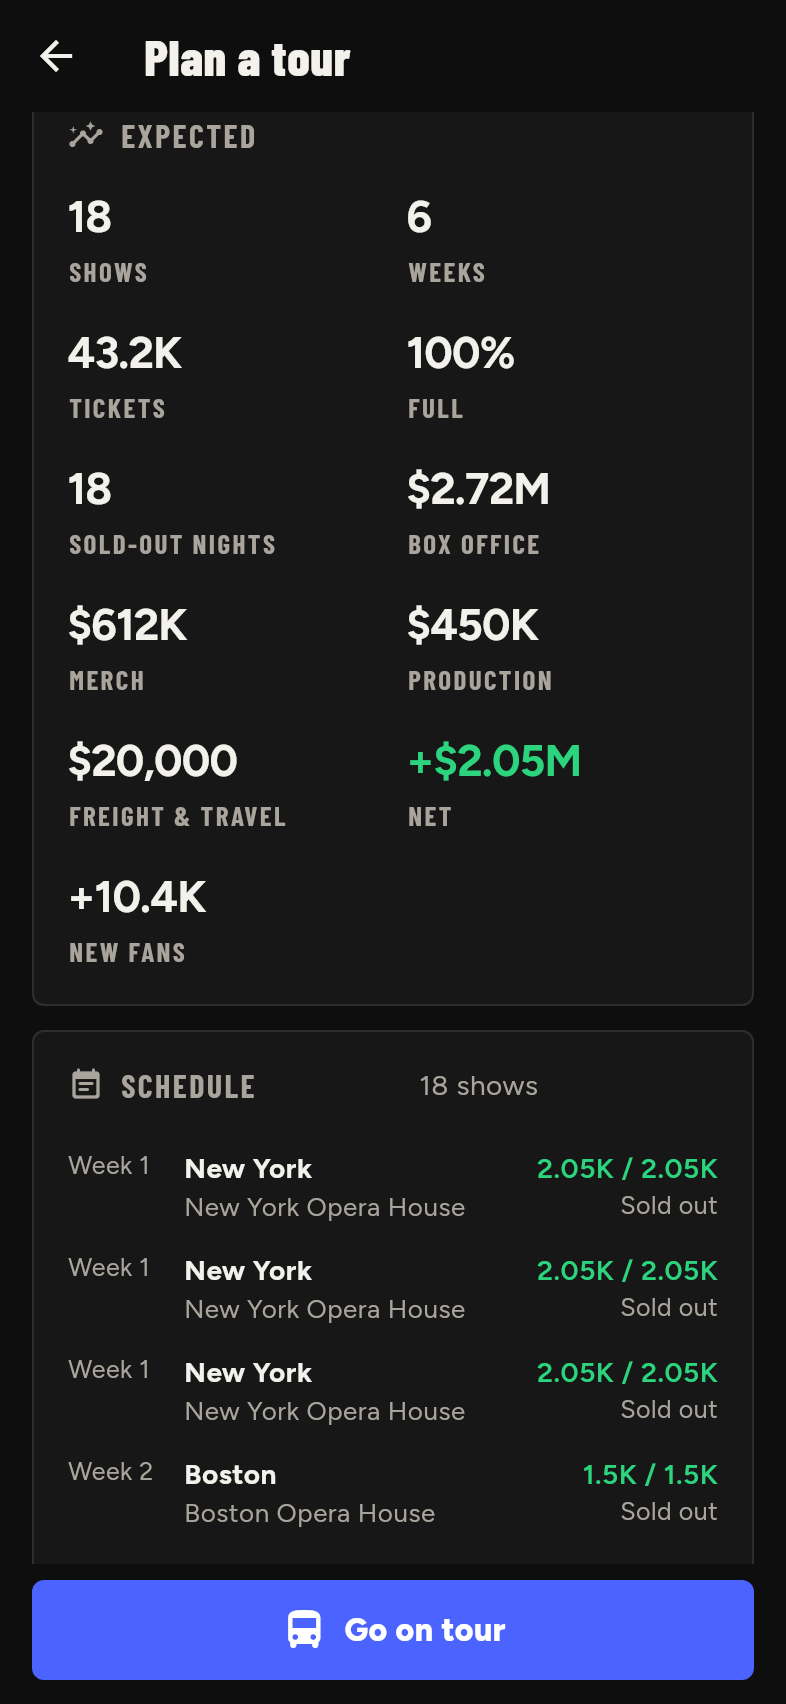
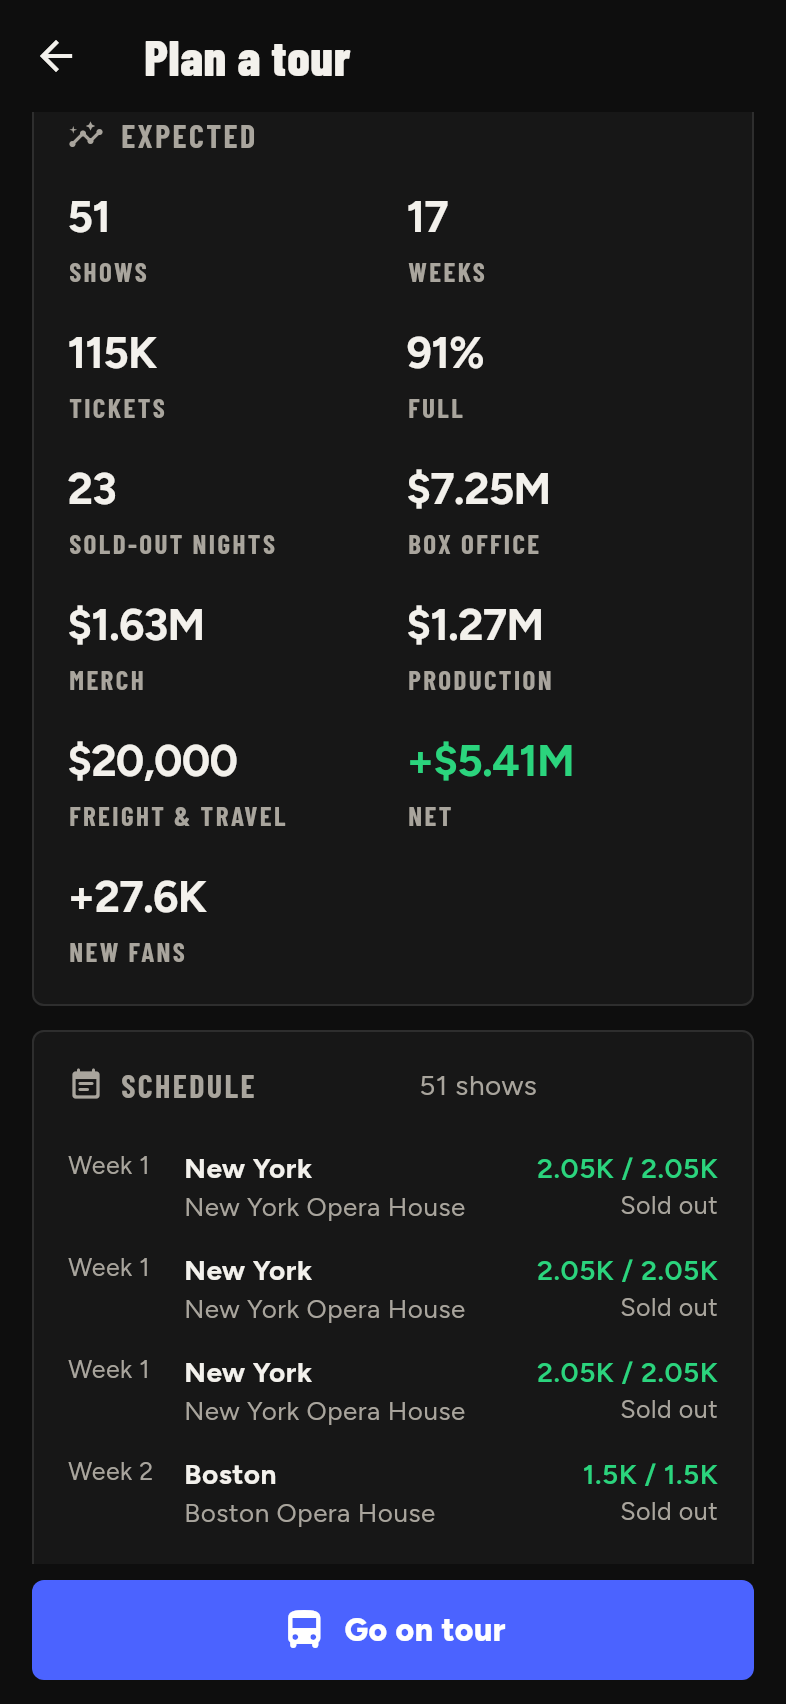
Size tour legs to what the fans fill (K181)
The tour planner set every leg to a third of the market's nights, so a
US stadium leg started at 20 nights and sold half empty. A leg now
starts at the most nights that fill about 90% of the seats at the
chosen prices, production and support act, and a 'Fit to demand'
button sizes it again after changes.

Claude-Session: https://claude.ai/code/session_01UqeaYiXbKvrTFgHV44HcjP

diff --git a/app/lib/screens/tour_screen.dart b/app/lib/screens/tour_screen.dart
@@ -48,6 +48,16 @@ class _TourScreenState extends State<TourScreen> {
     };
     _legs[home] = _defaultLeg(home);
     _load();
+    _fit(home);
+  }
+
+  /// Sizes [m]'s leg to the nights its fans can fill (docs K181).
+  Future<void> _fit(TourMarket m) async {
+    if (_legs[m] == null) return;
+    final n = await widget.state.read(Cmd.suggestTourShows(_request, m));
+    if (!mounted) return;
+    final d = _legs[m];
+    if (d != null) _change(() => d.shows = n);
   }
 
   @override
@@ -190,15 +200,22 @@ class _TourScreenState extends State<TourScreen> {
                       estimate: plan?.legs
                           .where((v) => v.leg.market == m)
                           .firstOrNull,
-                      onToggle: (on) => _change(() {
-                        on ? _legs[m] = _defaultLeg(m) : _legs.remove(m);
-                      }),
-                      onKind: (k) => _change(() {
-                        final d = _legs[m]!;
-                        d.kind = k;
-                        d.shows = d.shows.clamp(1, Tours.maxShows(m, k));
-                      }),
+                      onToggle: (on) {
+                        _change(() {
+                          on ? _legs[m] = _defaultLeg(m) : _legs.remove(m);
+                        });
+                        if (on) _fit(m);
+                      },
+                      onKind: (k) {
+                        _change(() {
+                          final d = _legs[m]!;
+                          d.kind = k;
+                          d.shows = d.shows.clamp(1, Tours.maxShows(m, k));
+                        });
+                        _fit(m);
+                      },
                       onShows: (n) => _change(() => _legs[m]!.shows = n),
+                      onFit: () => _fit(m),
                     ),
                 ]),
           ),
@@ -317,6 +334,7 @@ class _MarketTile extends StatelessWidget {
     required this.onToggle,
     required this.onKind,
     required this.onShows,
+    required this.onFit,
   });
   final TourMarket market;
   final _LegDraft? draft;
@@ -325,6 +343,9 @@ class _MarketTile extends StatelessWidget {
   final ValueChanged<bool> onToggle;
   final ValueChanged<TourKind> onKind;
   final ValueChanged<int> onShows;
+
+  /// Sizes the leg to its demand (docs K181).
+  final VoidCallback onFit;
 
   @override
   Widget build(BuildContext context) {
@@ -383,16 +404,24 @@ class _MarketTile extends StatelessWidget {
           if (e != null)
             Padding(
               padding: const EdgeInsets.fromLTRB(12, 6, 0, 0),
-              child: Text(
-                  l.tourLegEstimate((e.fill * 100).round(),
-                      fmt.compact(e.tickets), fmt.money(e.priceCents)),
-                  style: TextStyle(
-                      color: e.fill >= 0.8
-                          ? AppColors.mint
-                          : e.fill >= 0.5
-                              ? AppColors.textMuted
-                              : AppColors.coral,
-                      fontWeight: FontWeight.w600)),
+              child: Row(children: [
+                Expanded(
+                    child: Text(
+                        l.tourLegEstimate((e.fill * 100).round(),
+                            fmt.compact(e.tickets), fmt.money(e.priceCents)),
+                        style: TextStyle(
+                            color: e.fill >= 0.8
+                                ? AppColors.mint
+                                : e.fill >= 0.5
+                                    ? AppColors.textMuted
+                                    : AppColors.coral,
+                            fontWeight: FontWeight.w600))),
+                TextButton.icon(
+                  onPressed: onFit,
+                  icon: const Icon(Icons.auto_fix_high_rounded, size: 18),
+                  label: Text(context.l10n.tourFit),
+                ),
+              ]),
             ),
         ],
       ]),

diff --git a/packages/game/test/game_test.dart b/packages/game/test/game_test.dart
@@ -3345,6 +3345,44 @@ void main() {
       g.close();
     });
 
+    test('tour legs sized to what the fans fill (K181)', () {
+      final g = GameSession.start(
+          slots,
+          _setup(
+              premium: true,
+              tier: StartTier.superstar,
+              money: StartMoney.millionaire));
+      g.world.player!.coreFans = 4e6;
+      for (final kind in [TourKind.arena, TourKind.stadium]) {
+        const m = TourMarket.usa;
+        final n = g.suggestTourShows(
+            TourRequest(legs: [TourLeg(m, kind, 1)]), m);
+        expect(n, inInclusiveRange(1, Tours.maxShows(m, kind)));
+        double fill(int shows) => g
+            .tourPreview(TourRequest(legs: [TourLeg(m, kind, shows)]))
+            .legs
+            .single
+            .fill;
+        expect(fill(n), greaterThanOrEqualTo(GameSession.suggestedFill));
+        if (n < Tours.maxShows(m, kind)) {
+          expect(fill(Tours.maxShows(m, kind)),
+              lessThan(GameSession.suggestedFill));
+        }
+      }
+      // Pricier tickets: fewer nights.
+      final cheap = g.suggestTourShows(
+          const TourRequest(
+              legs: [TourLeg(TourMarket.usa, TourKind.stadium, 1)]),
+          TourMarket.usa);
+      final dear = g.suggestTourShows(
+          const TourRequest(
+              legs: [TourLeg(TourMarket.usa, TourKind.stadium, 1)],
+              priceFactor: 1.8),
+          TourMarket.usa);
+      expect(dear, lessThanOrEqualTo(cheap));
+      g.close();
+    });
+
     test('a single worked to another radio format (K134)', () {
       var g = GameSession.start(slots, _setup());
       final slot = g.slotId;

diff --git a/packages/game/lib/src/game_session.dart b/packages/game/lib/src/game_session.dart
@@ -504,6 +504,27 @@ class GameSession {
 
   /// What a tour of each size would do over [regions], as planned now
   /// (docs K63).
+  /// Fill a suggested run of nights should reach (docs K181).
+  static const suggestedFill = 0.9;
+
+  /// The most nights [r]'s leg in [m] can take and still fill about
+  /// [suggestedFill] of the seats, at [r]'s prices, production and
+  /// support act (at least one; docs K181).
+  int suggestTourShows(TourRequest r, TourMarket m) {
+    final leg = r.legs.where((l) => l.market == m).firstOrNull;
+    if (leg == null) throw GameException('tourMarkets', 'No such leg');
+    var best = 1;
+    for (var n = 1; n <= Tours.maxShows(m, leg.kind); n++) {
+      final v = tourPreview(TourRequest(
+          legs: [TourLeg(m, leg.kind, n)],
+          priceFactor: r.priceFactor,
+          production: r.production,
+          openerId: r.openerId));
+      if (v.legs.single.fill >= suggestedFill) best = n;
+    }
+    return best;
+  }
+
   /// A tour as it would go if it started this week (docs K76): each
   /// night's expected turnout, the money, and what stops it.
   TourPlanView tourPreview(TourRequest r) {

diff --git a/app/lib/core/commands.dart b/app/lib/core/commands.dart
@@ -211,6 +211,10 @@ abstract final class Cmd {
   static SessionCmd<List<MilestoneView>> milestones() => (s) => s.milestones;
   static SessionCmd<List<PlatformView>> platforms() => (s) => s.platforms;
   static SessionCmd<void> hireManager(Manager m) => (s) => s.hireManager(m);
+  /// Nights a tour leg can fill (docs K181).
+  static SessionCmd<int> suggestTourShows(TourRequest r, TourMarket m) =>
+      (s) => s.suggestTourShows(r, m);
+
   /// Streamify Sessions (docs K178).
   static SessionCmd<SessionsView> sessions() => (s) => s.sessions;
   static SessionCmd<void> recordSession(int songId, int coverSongId) =>

diff --git a/docs/README.md b/docs/README.md
@@ -205,6 +205,7 @@ Bu kararlar alınmıştır; değiştirmek için bilinçli bir revizyon gerekir.
 | K178 | **Streamify Sessions (Spotify Singles gibi, 2017+):** Streamify, 1M+ aylık dinleyicisi olan sanatçıyı yılda bir stüdyosuna davet ediyor (Streamify ana sayfasında "Streamify Sessions" kartı: davet, ya da kaç dinleyici gerektiği / sıradaki davetin tarihi). Session iki kayıttan oluşuyor: çıkmış şarkılarından birinin **sade versiyonu** (yeni şarkı versiyonu "Streamify Session": dinlenme dalgası +0,2, uykudaysa uyanır, Streamify editör listesine ekler) ve bu haftanın en büyük 15 şarkısından birinin **cover'ı**: o sanatçının sıradan dinleyicilerinin %1,2'sine ulaşıp yeni dinleyici kazandırıyor (aynı tür değilse yarısı), orijinal şarkıya da küçük bir dalga (+0,05). Stüdyoyu Streamify ödüyor; 6 yaratıcılık. Her şarkının bir Session'ı olabilir; Session versiyonu satın alınamıyor, sadece davetle. Geçmiş session'lar kartta listeleniyor. | Uygulandı |
 | K179 | **Denge kontrolü (K168–K178 sonrası, career_probe, normal mod, 3 dünya, medyan):** Bilinmeyen 2010: K167 ile aynı (3. yıl en iyi ABD #3 ve 132K hayran, 4. yılda ABD #1, albüm ilk haftası 133K; 5. yılda #1'ler, 1,3M hayran, 5,2M para). Süperstar 2016: yıl 1–3 #1 sayısı 3 → 1 → 0 (K167: 4 → 2 → 1), albüm ilk haftası global 0,94–1,0M (K167: 1,0–1,1M), para 16,6M (K167: 18,0M). Stadyum eşiği (K176) etkisiz: 5M eşikle ölçüm birebir aynı. Fark rakip yıldızların çıkış hamlelerinden (K175) dünyanın farklı akmasından; tek dünyalık oynamalar bu büyüklükte. Ayar yapılmadı. |
 | K180 | **Turne biletleri daha kolay satılıyor (F82):** Mekan boyutuna göre çekim çarpanı: kulüp ×2,2 (yerel sahne ve kapıdan gelenler), tiyatro ×1,1, arena ×1,25, stadyum ×1,4 (büyük konser bir etkinlik, hayranlar yanında başkalarını da getiriyor). Rakiplerin turne kayıtları da aynı kuralla. Ölçüm (ABD bacağı, performans 29, heyecansız → heyecan 0,3): kulüp 20K hayran 10 gece %31 → %64 (%74); arena 1M 10 gece %65 → %81 (%96); stadyum 3M 6 gece %61 → %84 (%98), 4M 10 gece %67 → %91 (%100), 6M 20 gece %70 → %88 (%96). Önceden stadyum, hayran sayısından bağımsız hiç dolmuyordu. | Uygulandı |
+| K181 | **Turne bacakları talebe göre (F82'nin devamı):** Turne planlayıcısı her pazarın varsayılan gece sayısını "en fazlanın üçte biri" seçiyordu (ABD stadyumu 20 gece); talep düşükse biletler yarı boş kalıyordu. Artık bir pazar açılınca ya da mekan boyutu değişince gece sayısı, o fiyat, prodüksiyon ve ön grupla koltukların ~%90'ını dolduracak en fazla geceye ayarlanıyor; her bacakta "Talebe göre" düğmesi fiyat ya da ön grup değiştikten sonra yeniden ayarlıyor. Elle artırıp azaltmak hâlâ serbest. | Uygulandı |
 | K82 | **Her platformda kendi profilin (F48):** Platform ekranlarının üstünde "Senin sayfan": fotoğraf (Streamify'da Streamify fotoğrafı), ad, mavi tik (fame %10+ veya 100K+ takipçi), takipçi sayısı (ViewTube'da abone), streaming uygulamalarında aylık dinleyici, bu haftaki rakam ve en büyük şarkın. Takipçiler sadık hayran ve sıradan dinleyiciden hesaplanır, platform açıldıktan sonra 4 yılda tam oturur: Streamify %85 hayran + %5 dinleyici; Fruit Music %25 + %2 (Kuzey Amerika'da daha çok); ViewTube %60 + %6 (müzik videosu sayısıyla ×0,8–1,2); NoiseCloud %10 + %0,8; TikTak %25 + %6 (karizmayla ×0,6–1,4). Fruit Tunes indirme mağazası, takipçisi yok. Streamify sanatçı sayfasındaki takipçi sayısı da aynı kuraldan geliyor (rakipler dahil). |
 | K23 | ChatGPT planındaki ekranlar, rekorlar, kampanyalar, finans, bildirimler, ödüller, Kolay mod ve 10 performans kuralı dokümanlara taşındı. |
 
